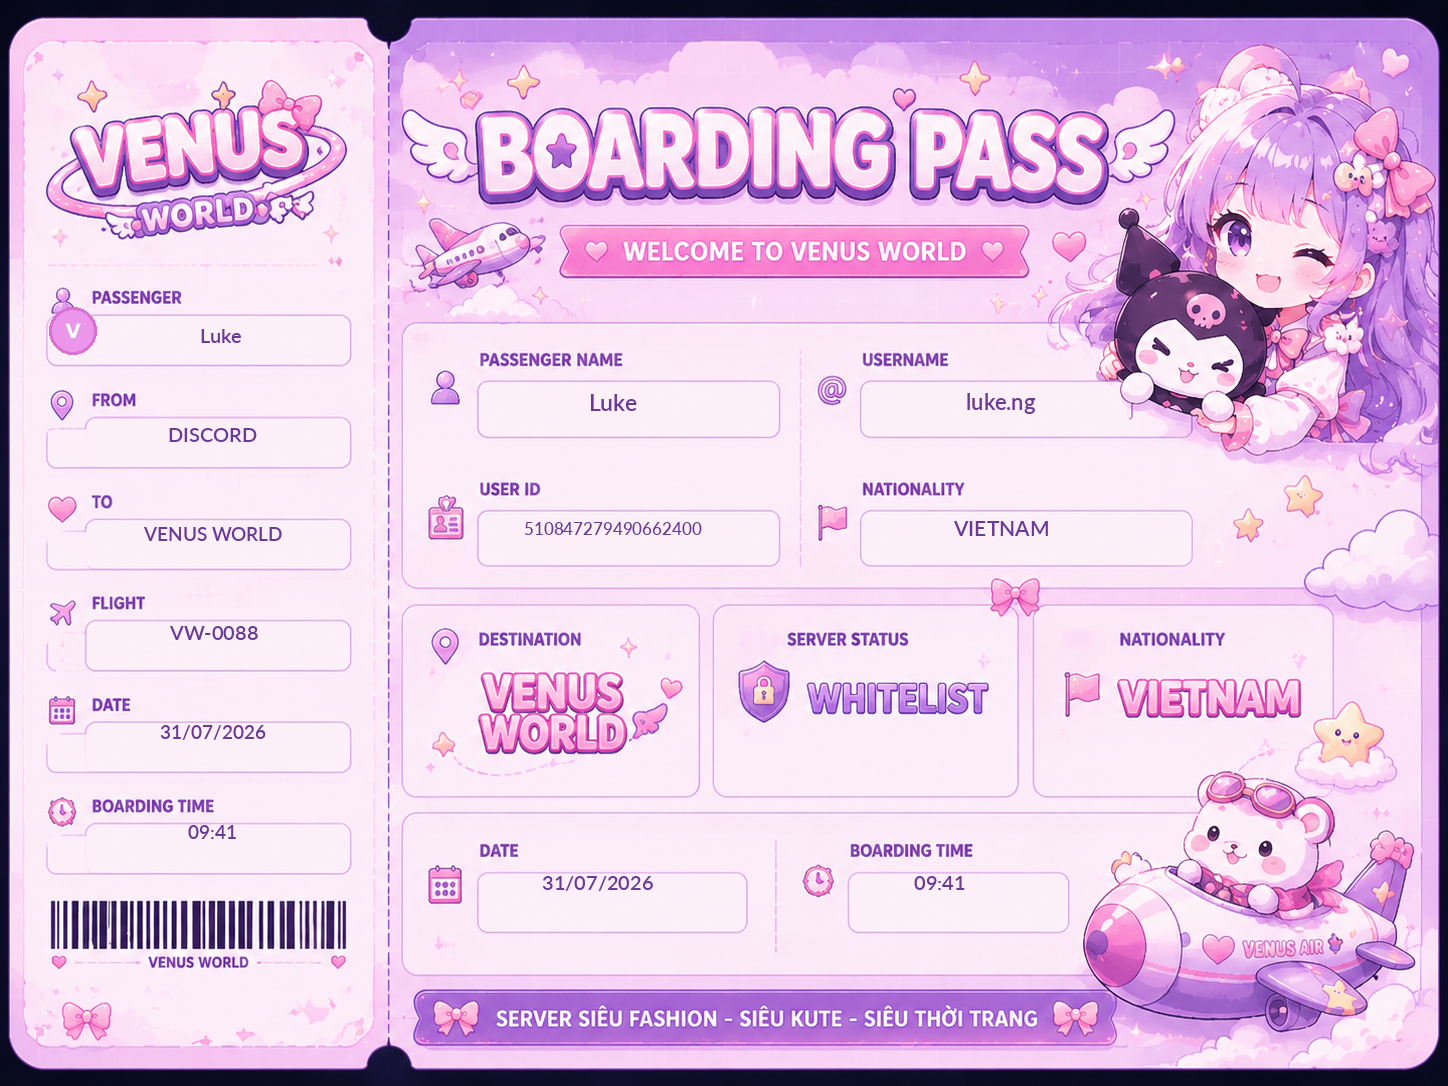
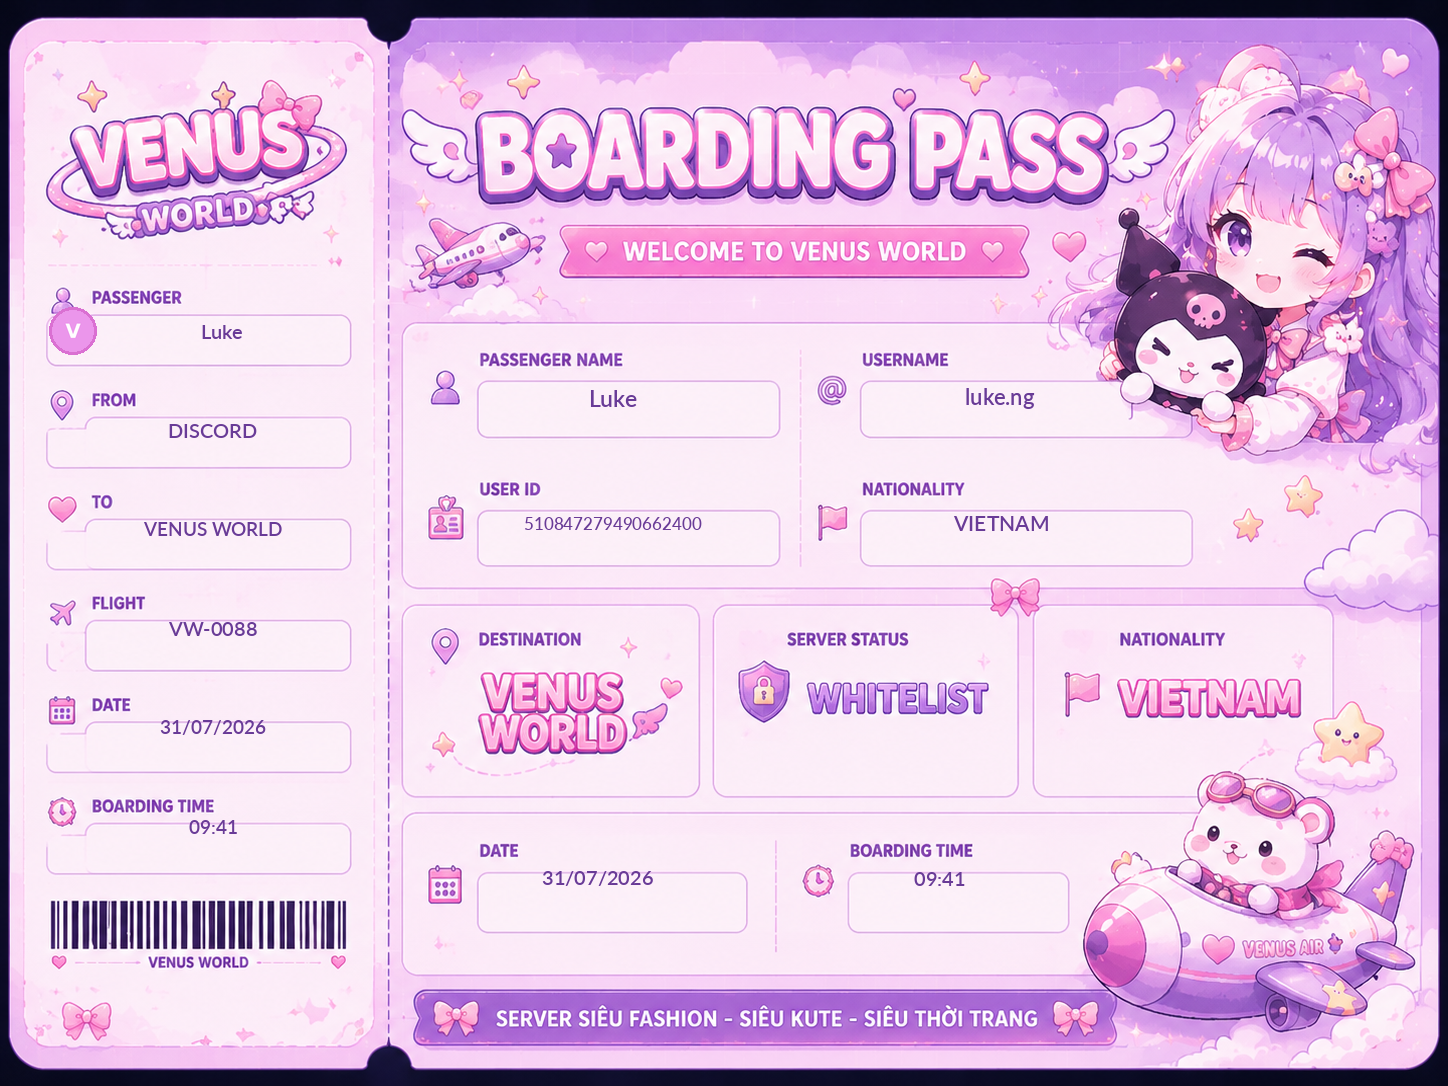
Add files via upload

diff --git a/card_generator.py b/card_generator.py
@@ -119,8 +119,37 @@ def _ellipsize(
     return text[:low].rstrip() + suffix
 
 
+def _render_text_crop(text: str, font: ImageFont.ImageFont) -> Image.Image:
+    """
+    Render chữ ra layer riêng rồi cắt đúng phần pixel thực sự nhìn thấy.
+
+    Cách này không dựa vào ascender/descender/baseline của font, nên phần nét chữ
+    được đặt đúng chính giữa ô theo cả chiều ngang lẫn chiều dọc.
+    """
+    probe = Image.new("RGBA", (1, 1), (0, 0, 0, 0))
+    probe_draw = ImageDraw.Draw(probe)
+    left, top, right, bottom = probe_draw.textbbox((0, 0), text, font=font)
+
+    pad = 6
+    width = max(1, right - left + pad * 2)
+    height = max(1, bottom - top + pad * 2)
+    layer = Image.new("RGBA", (width, height), (0, 0, 0, 0))
+    layer_draw = ImageDraw.Draw(layer)
+    layer_draw.text(
+        (pad - left, pad - top),
+        text,
+        font=font,
+        fill=TEXT_COLOR,
+    )
+
+    ink_box = layer.getchannel("A").getbbox()
+    if ink_box is None:
+        return layer
+    return layer.crop(ink_box)
+
+
 def draw_field_text(
-    draw: ImageDraw.ImageDraw,
+    image: Image.Image,
     box: tuple[int, int, int, int],
     text: str,
     *,
@@ -129,50 +158,38 @@ def draw_field_text(
     weight: FontWeight = "semibold",
     padding_x: int = 10,
     padding_y: int = 5,
-    optical_y_offset: int = 5,
 ) -> None:
     """
-    Dùng kích thước cố định hợp lý cho từng ô; chỉ thu nhỏ khi nội dung dài.
-    Nhờ vậy tên ngắn như "Luke" không bị phóng quá lớn.
+    Căn giữa thật sự theo pixel nhìn thấy của chữ.
+
+    Chữ ngắn giữ nguyên kích thước thiết kế. Chỉ thu nhỏ nếu nội dung quá dài.
     """
     x1, y1, x2, y2 = box
     clean_text = " ".join(str(text).split()) or "-"
     max_width = max(1, x2 - x1 - padding_x * 2)
     max_height = max(1, y2 - y1 - padding_y * 2)
+    measure_draw = ImageDraw.Draw(image)
 
     selected_font: ImageFont.ImageFont | None = None
-    selected_bounds: tuple[int, int, int, int] | None = None
     selected_text = clean_text
 
     for current_size in range(size, min_size - 1, -1):
         font = _load_font(current_size, weight=weight)
-        width, height, bounds = _measure(draw, clean_text, font)
+        width, height, _ = _measure(measure_draw, clean_text, font)
         if width <= max_width and height <= max_height:
             selected_font = font
-            selected_bounds = bounds
             break
 
     if selected_font is None:
         selected_font = _load_font(min_size, weight=weight)
-        selected_text = _ellipsize(draw, clean_text, selected_font, max_width)
-        _, _, selected_bounds = _measure(draw, selected_text, selected_font)
+        selected_text = _ellipsize(measure_draw, clean_text, selected_font, max_width)
 
-    assert selected_bounds is not None
-    left, top, right, bottom = selected_bounds
-    text_width = right - left
-    text_height = bottom - top
+    text_layer = _render_text_crop(selected_text, selected_font)
 
-    x = x1 + (x2 - x1 - text_width) / 2 - left
-    # Font Lato có phần nét chữ nhìn nặng ở phía trên.
-    # Dịch xuống nhẹ để chữ nằm giữa ô theo thị giác, không bám lên nóc.
-    y = y1 + (y2 - y1 - text_height) / 2 - top + optical_y_offset
-
-    draw.text(
-        (round(x), round(y)),
-        selected_text,
-        font=selected_font,
-        fill=TEXT_COLOR,
-    )
+    # Center theo đúng khung ô, dùng kích thước pixel thực tế của nét chữ.
+    target_x = round(x1 + (x2 - x1 - text_layer.width) / 2)
+    target_y = round(y1 + (y2 - y1 - text_layer.height) / 2)
+    image.alpha_composite(text_layer, (target_x, target_y))
 
 
 def _paste_round_avatar(base: Image.Image, avatar_bytes: bytes | None) -> None:
@@ -225,33 +242,32 @@ def make_welcome_card(
             f"Kích thước hiện tại: {image.width}x{image.height}."
         )
 
-    draw = ImageDraw.Draw(image)
     _paste_round_avatar(image, avatar_bytes)
 
-    # Vé nhỏ bên trái — kích thước vừa, không phóng quá lớn.
-    draw_field_text(draw, (100, 307, 343, 357), data.display_name, size=20, min_size=14, optical_y_offset=4)
-    draw_field_text(draw, (83, 406, 343, 455), data.origin.upper(), size=20, min_size=14)
-    draw_field_text(draw, (83, 505, 343, 554), data.destination.upper(), size=19, min_size=13)
-    draw_field_text(draw, (83, 604, 343, 653), data.resolved_flight_code().upper(), size=20, min_size=14)
-    draw_field_text(draw, (83, 703, 343, 752), data.date_text, size=19, min_size=14)
-    draw_field_text(draw, (83, 802, 343, 851), data.time_text, size=19, min_size=14)
+    # Vé nhỏ bên trái.
+    draw_field_text(image, (100, 307, 343, 357), data.display_name, size=20, min_size=14)
+    draw_field_text(image, (83, 406, 343, 455), data.origin.upper(), size=20, min_size=14)
+    draw_field_text(image, (83, 505, 343, 554), data.destination.upper(), size=19, min_size=13)
+    draw_field_text(image, (83, 604, 343, 653), data.resolved_flight_code().upper(), size=20, min_size=14)
+    draw_field_text(image, (83, 703, 343, 752), data.date_text, size=19, min_size=14)
+    draw_field_text(image, (83, 802, 343, 851), data.time_text, size=19, min_size=14)
 
     # Khối thông tin chính.
-    draw_field_text(draw, (466, 370, 760, 426), data.display_name, size=23, min_size=15)
-    draw_field_text(draw, (837, 370, 1164, 426), data.username.lstrip("@"), size=22, min_size=15)
+    draw_field_text(image, (466, 370, 760, 426), data.display_name, size=23, min_size=15)
+    draw_field_text(image, (837, 370, 1164, 426), data.username.lstrip("@"), size=22, min_size=15)
     draw_field_text(
-        draw,
+        image,
         (466, 497, 760, 550),
         str(data.user_id),
         size=17,
         min_size=13,
         weight="medium",
     )
-    draw_field_text(draw, (837, 497, 1164, 550), data.nationality.upper(), size=21, min_size=15)
+    draw_field_text(image, (837, 497, 1164, 550), data.nationality.upper(), size=21, min_size=15)
 
     # Hàng ngày và giờ phía dưới.
-    draw_field_text(draw, (466, 849, 728, 908), data.date_text, size=20, min_size=14)
-    draw_field_text(draw, (837, 849, 1042, 908), data.time_text, size=20, min_size=14)
+    draw_field_text(image, (466, 849, 728, 908), data.date_text, size=20, min_size=14)
+    draw_field_text(image, (837, 849, 1042, 908), data.time_text, size=20, min_size=14)
 
     output = BytesIO()
     image.convert("RGB").save(output, format="PNG", optimize=True)

diff --git a/bot.py b/bot.py
@@ -77,20 +77,70 @@ def build_card_data(member: discord.Member) -> WelcomeCardData:
     )
 
 
-async def render_member_card(member: discord.Member) -> BytesIO:
+async def render_member_card(
+    member: discord.Member,
+    data: WelcomeCardData | None = None,
+) -> BytesIO:
     avatar_bytes: bytes | None = None
     try:
         avatar_bytes = await member.display_avatar.with_size(256).read()
     except discord.HTTPException:
         log.warning("Không tải được avatar của %s", member)
 
-    data = build_card_data(member)
+    card_data = data or build_card_data(member)
     png_bytes = await asyncio.to_thread(
         make_welcome_card,
-        data,
+        card_data,
         avatar_bytes=avatar_bytes,
     )
     return BytesIO(png_bytes)
+
+
+def build_welcome_embed(
+    member: discord.Member,
+    data: WelcomeCardData,
+    image_filename: str,
+) -> discord.Embed:
+    member_count = member.guild.member_count or len(member.guild.members)
+    description = WELCOME_MESSAGE.format(
+        mention=member.mention,
+        server=member.guild.name,
+        member_count=member_count,
+        username=member.name,
+        display_name=member.display_name,
+    )
+
+    embed = discord.Embed(
+        title=f"✈ Welcome aboard, {member.display_name}!",
+        description=description,
+        color=discord.Color.from_rgb(225, 126, 214),
+        timestamp=datetime.now(SERVER_TIMEZONE),
+    )
+
+    if member.guild.icon:
+        embed.set_author(name=member.guild.name, icon_url=member.guild.icon.url)
+    else:
+        embed.set_author(name=member.guild.name)
+    embed.set_thumbnail(url=member.display_avatar.url)
+    embed.set_image(url=f"attachment://{image_filename}")
+
+    embed.add_field(
+        name="✈ Chuyến bay",
+        value=f"`{data.resolved_flight_code()}`",
+        inline=True,
+    )
+    embed.add_field(
+        name="📍 Điểm đến",
+        value=f"**{data.destination}**",
+        inline=True,
+    )
+    embed.add_field(
+        name="🎟 Hành khách",
+        value=f"**#{member_count}**",
+        inline=True,
+    )
+    embed.set_footer(text=f"VENUS WORLD • {data.date_text} • {data.time_text}")
+    return embed
 
 
 async def get_welcome_channel(guild: discord.Guild) -> discord.abc.Messageable | None:
@@ -109,21 +159,22 @@ async def get_welcome_channel(guild: discord.Guild) -> discord.abc.Messageable |
 
 
 async def send_welcome(member: discord.Member, channel: discord.abc.Messageable) -> None:
-    image_buffer = await render_member_card(member)
-    member_count = member.guild.member_count or len(member.guild.members)
-    message = WELCOME_MESSAGE.format(
-        mention=member.mention,
-        server=member.guild.name,
-        member_count=member_count,
-        username=member.name,
-        display_name=member.display_name,
-    )
+    data = build_card_data(member)
+    image_buffer = await render_member_card(member, data)
+    filename = f"welcome-{member.id}.png"
+    file = discord.File(image_buffer, filename=filename)
+    embed = build_welcome_embed(member, data, filename)
 
-    file = discord.File(image_buffer, filename=f"welcome-{member.id}.png")
+    # Mention riêng để thành viên nhận thông báo; ảnh nằm bên trong embed.
     await channel.send(
-        content=message,
+        content=member.mention,
+        embed=embed,
         file=file,
-        allowed_mentions=discord.AllowedMentions(users=True, roles=False, everyone=False),
+        allowed_mentions=discord.AllowedMentions(
+            users=True,
+            roles=False,
+            everyone=False,
+        ),
     )
 
 
@@ -179,9 +230,16 @@ async def test_welcome(interaction: discord.Interaction) -> None:
 
     await interaction.response.defer(ephemeral=True, thinking=True)
     try:
-        image_buffer = await render_member_card(interaction.user)
-        file = discord.File(image_buffer, filename=f"welcome-test-{interaction.user.id}.png")
-        await interaction.followup.send("✅ Preview welcome card:", file=file, ephemeral=True)
+        data = build_card_data(interaction.user)
+        image_buffer = await render_member_card(interaction.user, data)
+        filename = f"welcome-test-{interaction.user.id}.png"
+        file = discord.File(image_buffer, filename=filename)
+        embed = build_welcome_embed(interaction.user, data, filename)
+        await interaction.followup.send(
+            embed=embed,
+            file=file,
+            ephemeral=True,
+        )
     except Exception:
         log.exception("Lỗi khi chạy /testwelcome")
         await interaction.followup.send(

diff --git a/README.md b/README.md
@@ -96,3 +96,10 @@ Bot Discord không cần Domain và không cần biến `PORT`.
 - Các dòng `FROM`, `TO`, `FLIGHT`, `DATE`, `BOARDING TIME` được căn cùng một trục.
 - Username không bị lặp hai dấu `@` vì template đã có icon `@`.
 - Template bắt buộc giữ đúng kích thước `1448x1086`.
+
+## Bản cập nhật căn giữa + Discord Embed
+
+- Nội dung trên boarding pass được căn giữa theo **pixel thực tế của nét chữ**, không còn phụ thuộc baseline của font.
+- Welcome card được hiển thị bên trong Discord Embed bằng `attachment://...`.
+- Tin nhắn chỉ mention thành viên ở ngoài embed để Discord gửi thông báo.
+- Lệnh `/testwelcome` cũng hiển thị đúng embed hoàn chỉnh.
